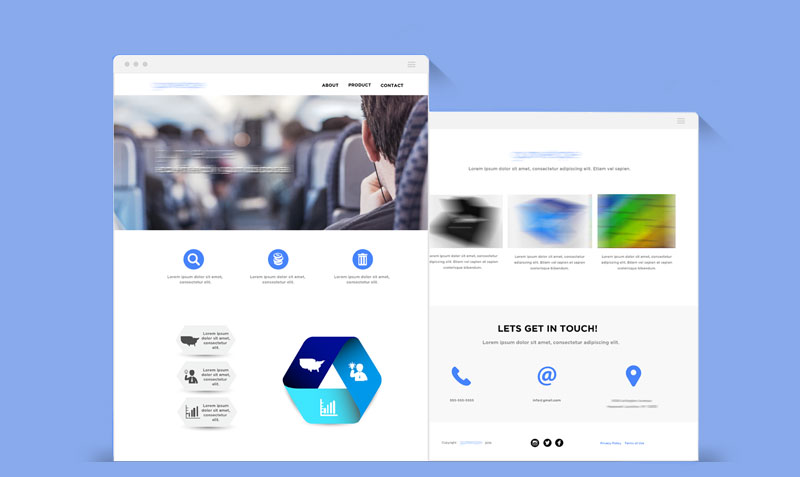
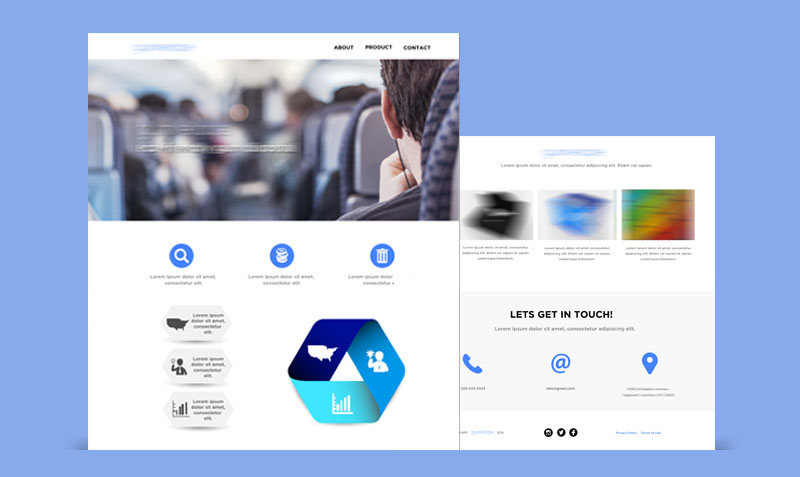
add portfolio site and connect the sites

diff --git a/public/css/style.css b/public/css/style.css
@@ -20,6 +20,10 @@
   background: #89aaeb;
 
 }
+#example{
+  background: #e88893;
+
+}
 
 .upto{
   padding: 1em 0 0.5em 0;
@@ -76,8 +80,15 @@ p{
   color: #fff;
   padding-top: 30px;
 }
+
 .subtitle{
   color: #aac5f7;
+  font-weight: 100;
+  padding: 0 0 15px 0;
+  font-size: 1.6em;
+}
+.subtitle-one{
+  color: #edd4d7;
   font-weight: 100;
   padding: 0 0 15px 0;
   font-size: 1.6em;
@@ -386,13 +397,19 @@ a:hover, a:focus{
     letter-spacing: 1px;
 }
 .main-btn:hover{
-  background: #21564B;
+  background: #1B7F69;
   -webkit-transition: all .3s;
   -moz-transition: all .3s;
   transition: all .3s;
 }
 .btn-one:hover{
-  background: #0f24e0;
+  background: #0556f5;
+  -webkit-transition: all .3s;
+  -moz-transition: all .3s;
+  transition: all .3s;
+}
+.btn-two:hover{
+  background: #fe4a5e;
   -webkit-transition: all .3s;
   -moz-transition: all .3s;
   transition: all .3s;
@@ -409,7 +426,29 @@ a:hover, a:focus{
     text-align: center;
     display: block;
     /*position: relative;*/
-    background: #3645db;
+    background: #3c7af3;
+    padding: .75em 3em .75em 3em;
+    color: #fff;
+    text-decoration: none;
+    /*margin: 1.5em 0 0;*/
+    border-radius: 3px;
+    -webkit-border-radius: 3px;
+    -moz-border-radius: 3px;
+    font-weight: 400;
+    border: 0;
+    font-family: 'Josefin Sans', sans-serif;
+    text-transform: capitalize;
+    letter-spacing: 1px;
+    max-width: 250px;
+    margin-left: auto;
+    margin-right: auto;
+}
+.btn-two {
+    font-size: 1em;
+    text-align: center;
+    display: block;
+    /*position: relative;*/
+    background: #ed5d6d;
     padding: .75em 3em .75em 3em;
     color: #fff;
     text-decoration: none;
@@ -456,7 +495,7 @@ ul.social-buttons li a:hover,
 ul.social-buttons li a:focus,
 ul.social-buttons li a:active {
     background-color: #ffffff;
-    border-radius: 100%;
+    border-radius: 20%;
     -webkit-transition: all .5s;
     -moz-transition: all .5s;
     transition: all .5s;
